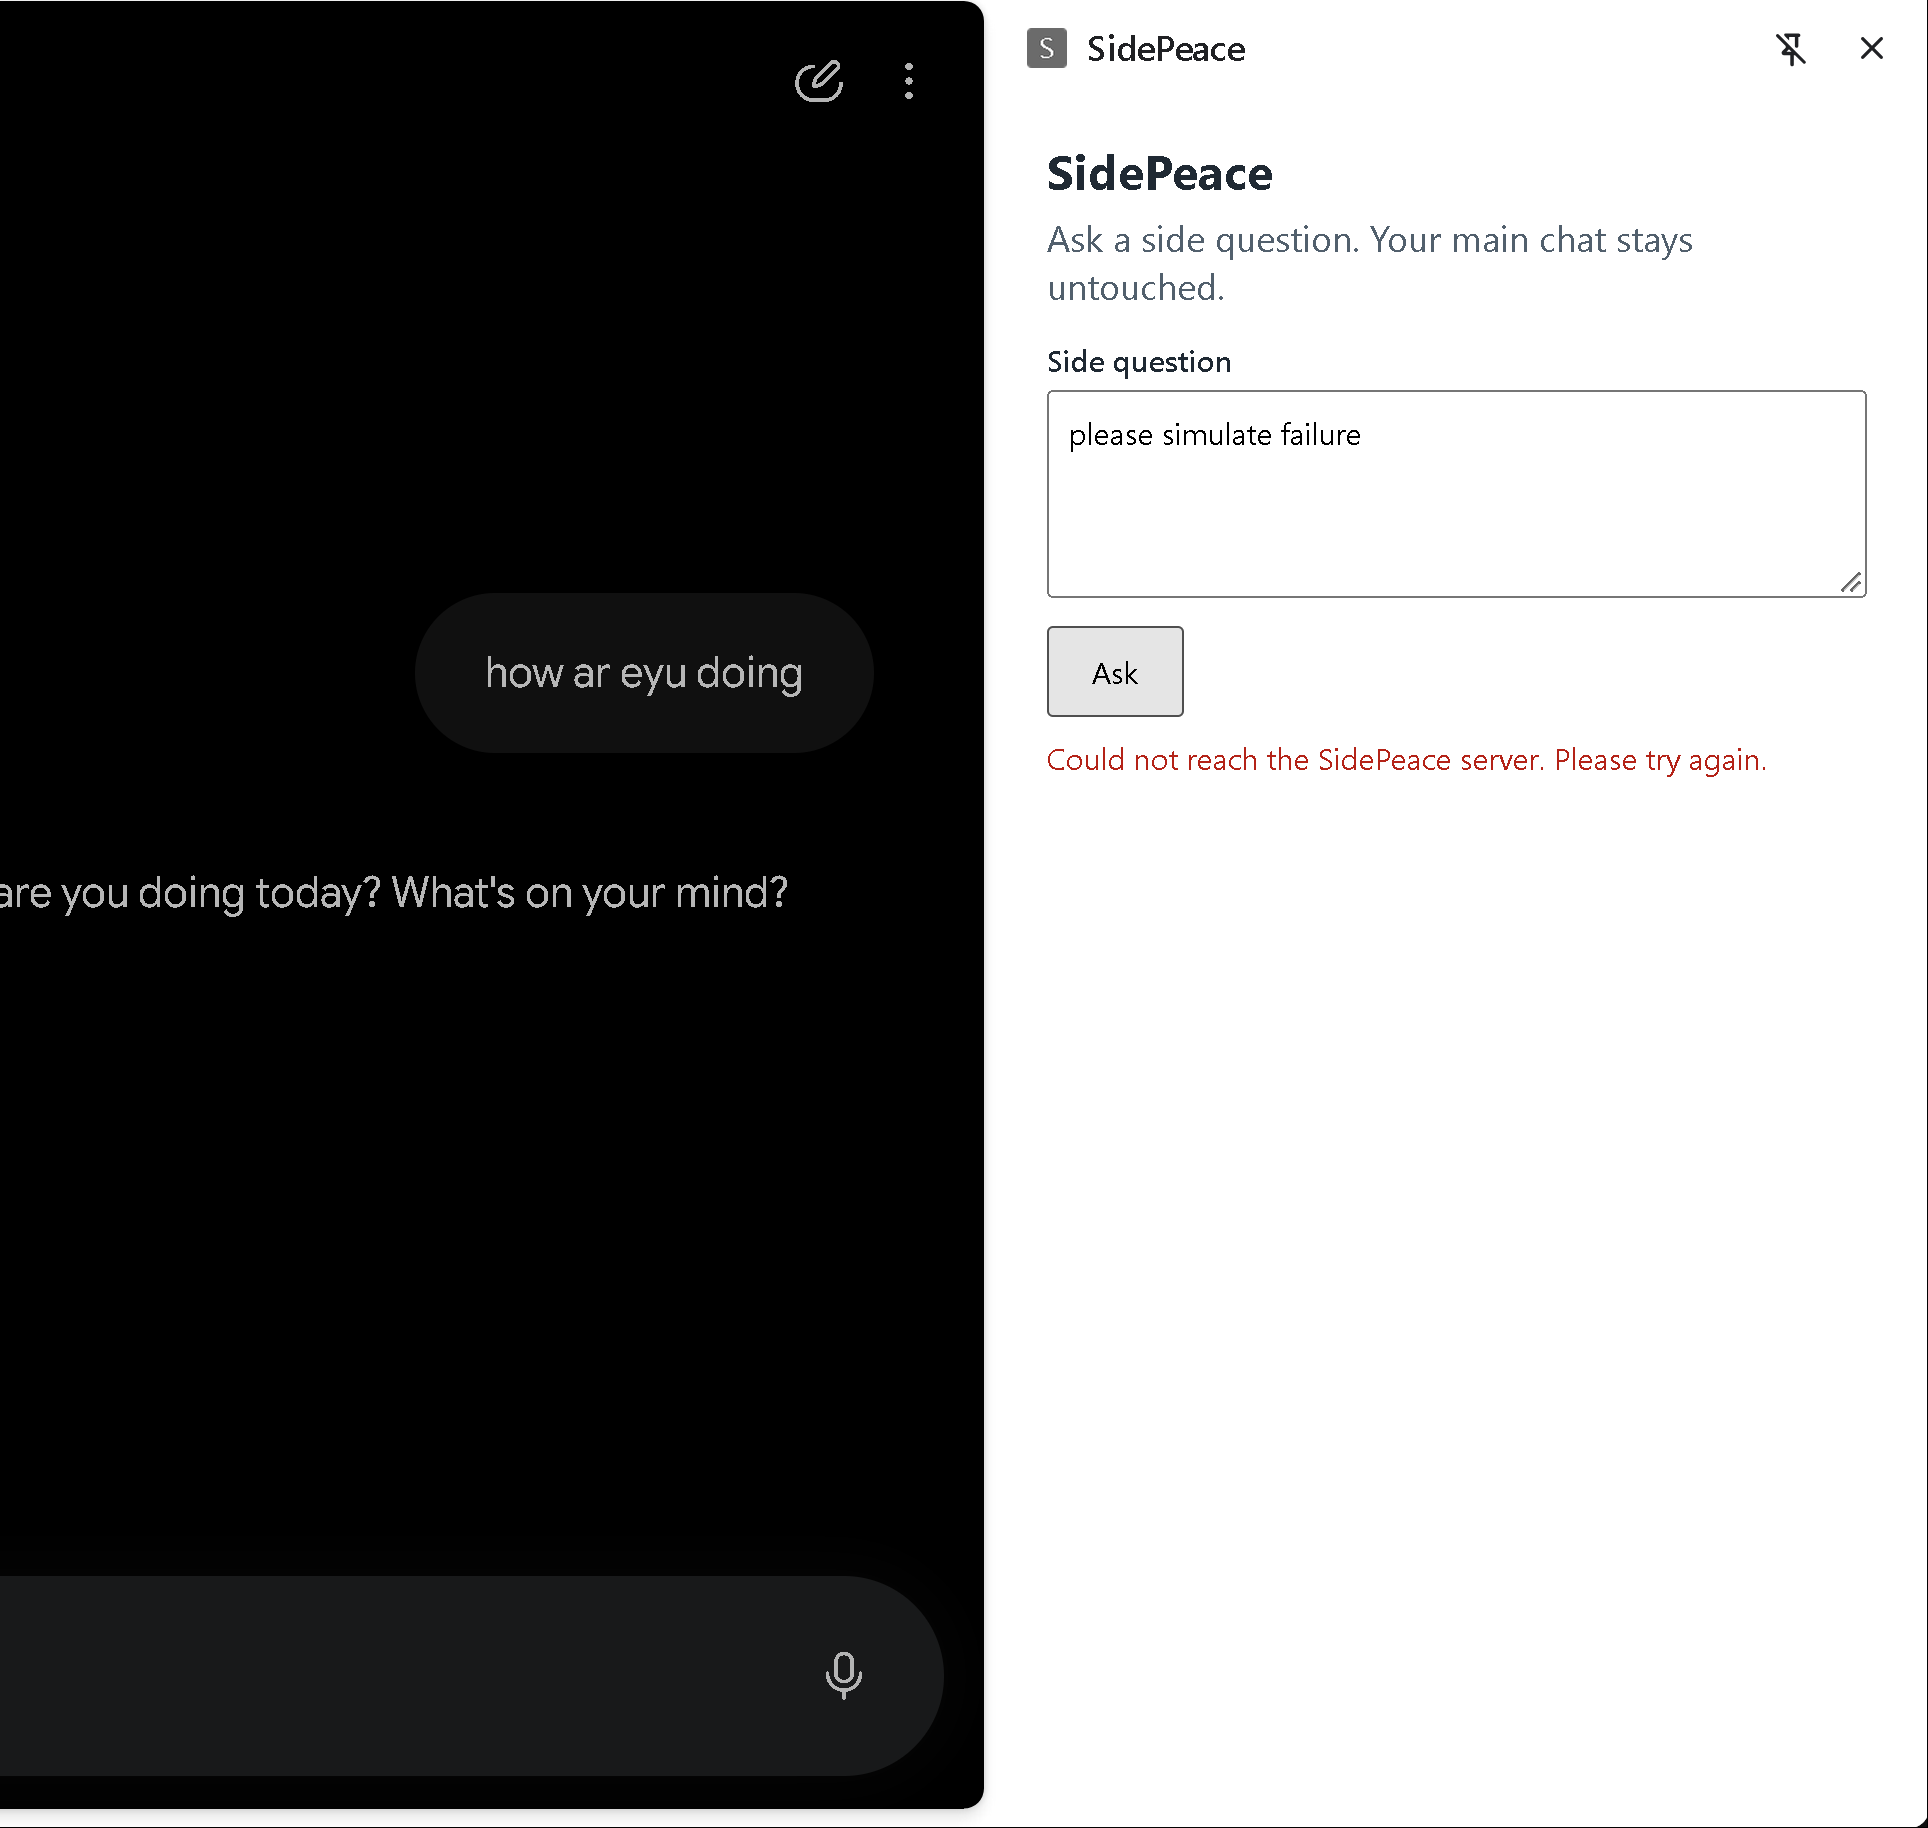
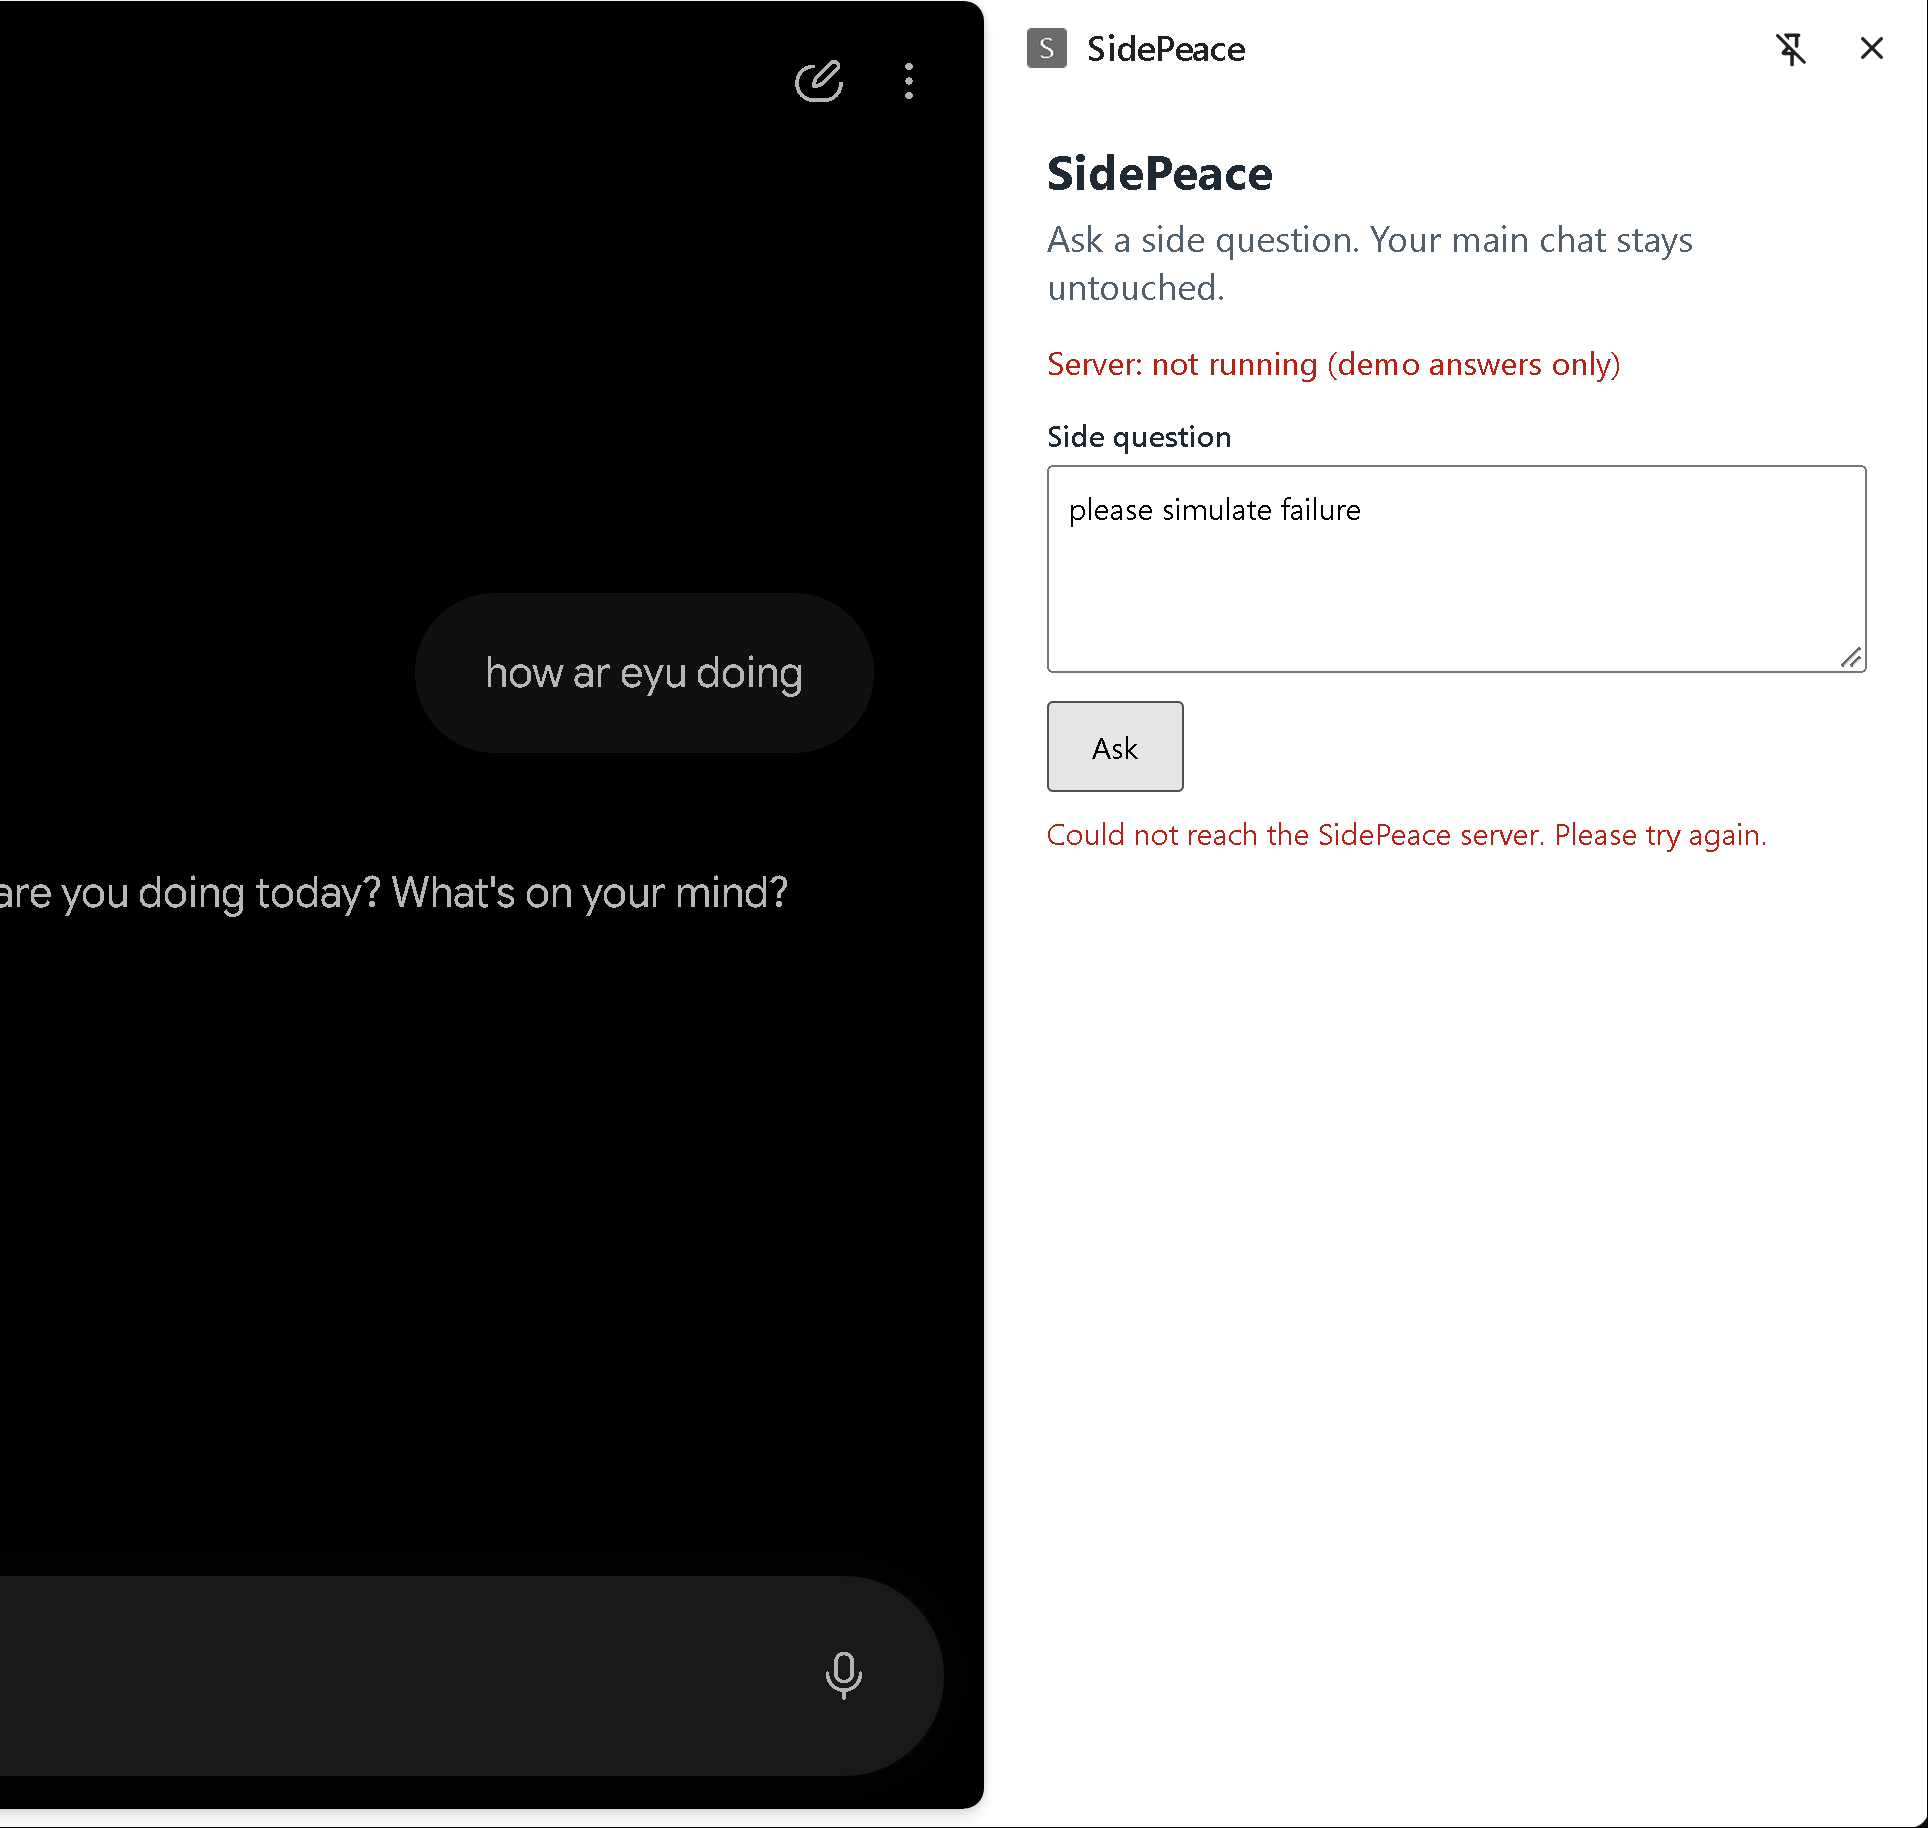
docs(sqa): redo docked-panel screenshots with the backend connected (REQ-F04)

Changed region(s): [[0.529, 0.1871, 0.8402, 0.2495], [0.529, 0.343, 0.6224, 0.4365], [0.6846, 0.4054, 0.7158, 0.4677]]

diff --git a/docs/sqa/ui-blackbox-script.md b/docs/sqa/ui-blackbox-script.md
@@ -22,22 +22,22 @@ Run 2026-11-19, Chrome 157 (automated, headless), extension loaded unpacked from
 
 Defect found by this script: the previous answer stayed visible next to a network error. Fixed test-first (commits 63d4542, f04b9b6, PR #21).
 
-## Signed-in run on real Gemini (2026-11-19, 10:42)
+## Signed-in run on real Gemini (2026-11-19, 10:55)
 
-The real extension (loaded unpacked in Ammar's own signed-in Chrome 157, branch `feature/panel-controller`) was opened with the toolbar icon, which
+The real extension (loaded unpacked in Ammar's own signed-in Chrome 157, branch `feature/panel-controller`) was opened with its pinned toolbar icon, which
 docks **Chrome's built-in side panel** next to a signed-in `gemini.google.com` chat (`openPanelOnActionClick` in `background/service_worker.js`).
-Input was typed into the panel; the Gemini sidebar (account name and chat titles) is cropped out of the images. The panel uses the demo bridge; a
-question containing "simulate failure" makes the bridge fail.
+The local FastAPI backend (`uvicorn main:create_app --factory --port 8000`) was running for states 1-4, and the panel shows **"Server: connected"**
+from `GET /health`. For state 5 the backend was stopped first, so the panel shows "Server: not running". The Gemini sidebar (account name and chat
+titles) is cropped out. Answers come from the demo bridge (a question containing "simulate failure" makes it fail); `/query` is not on `main` yet.
 
 | State | Expected | Result | Screenshot |
 |---|---|---|---|
-| Idle | Empty form, hint text | Pass | screenshots/signed-1-idle.png |
+| Idle | Empty form, hint, "Server: connected" | Pass | screenshots/signed-1-idle.png |
 | Validation error | "Please type a question.", no request | Pass | screenshots/signed-2-validation.png |
 | Loading | Ask button disabled while the request runs | Pass | screenshots/signed-3-loading.png |
 | Answer | Answer rendered as text under the form | Pass | screenshots/signed-4-answer.png |
-| Network error | "Could not reach the SidePeace server", previous answer cleared | Pass | screenshots/signed-5-network-error.png |
+| Network error | Backend stopped: "Server: not running" and "Could not reach the SidePeace server" | Pass | screenshots/signed-5-network-error.png |
 
-Remaining limit: answers come from the demo bridge, not the real backend, until Nawal's ExtensionBridge merges.
-(An earlier version of these screenshots showed the panel in a separate window; they were replaced with these docked-panel captures.)
+Remaining limit: real answers need Nazaar's `/query` and Nawal's ExtensionBridge; until they merge the answers are demo text.
 
 **Correction:** an earlier version of this document claimed the extension's service worker had started. That was wrong: the worker I saw belonged to Chrome's built-in "Google Network Speech" component, because `--load-extension` is ignored in current branded Chrome. The extension was not actually loaded in that run; the results above come from the corrected run.
